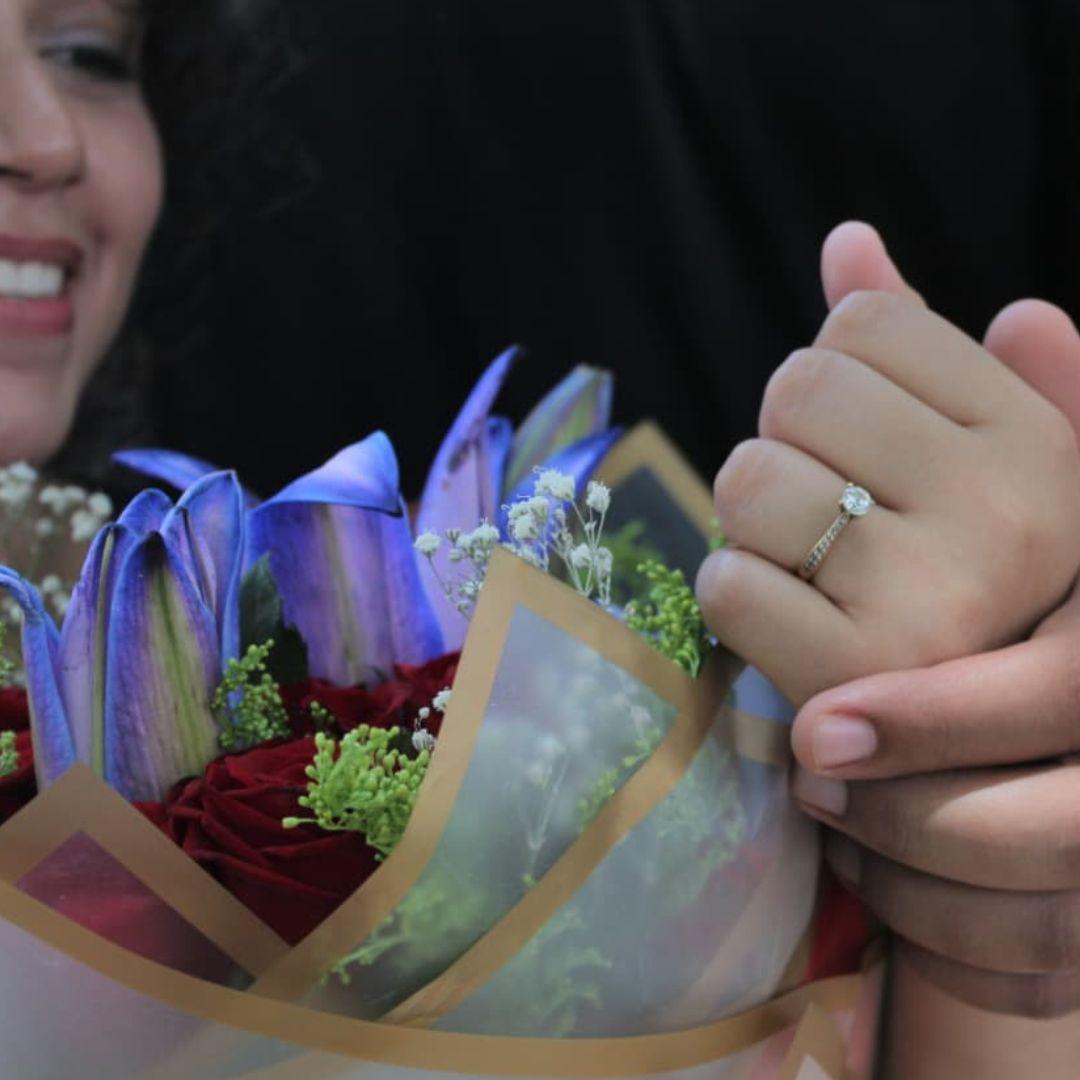
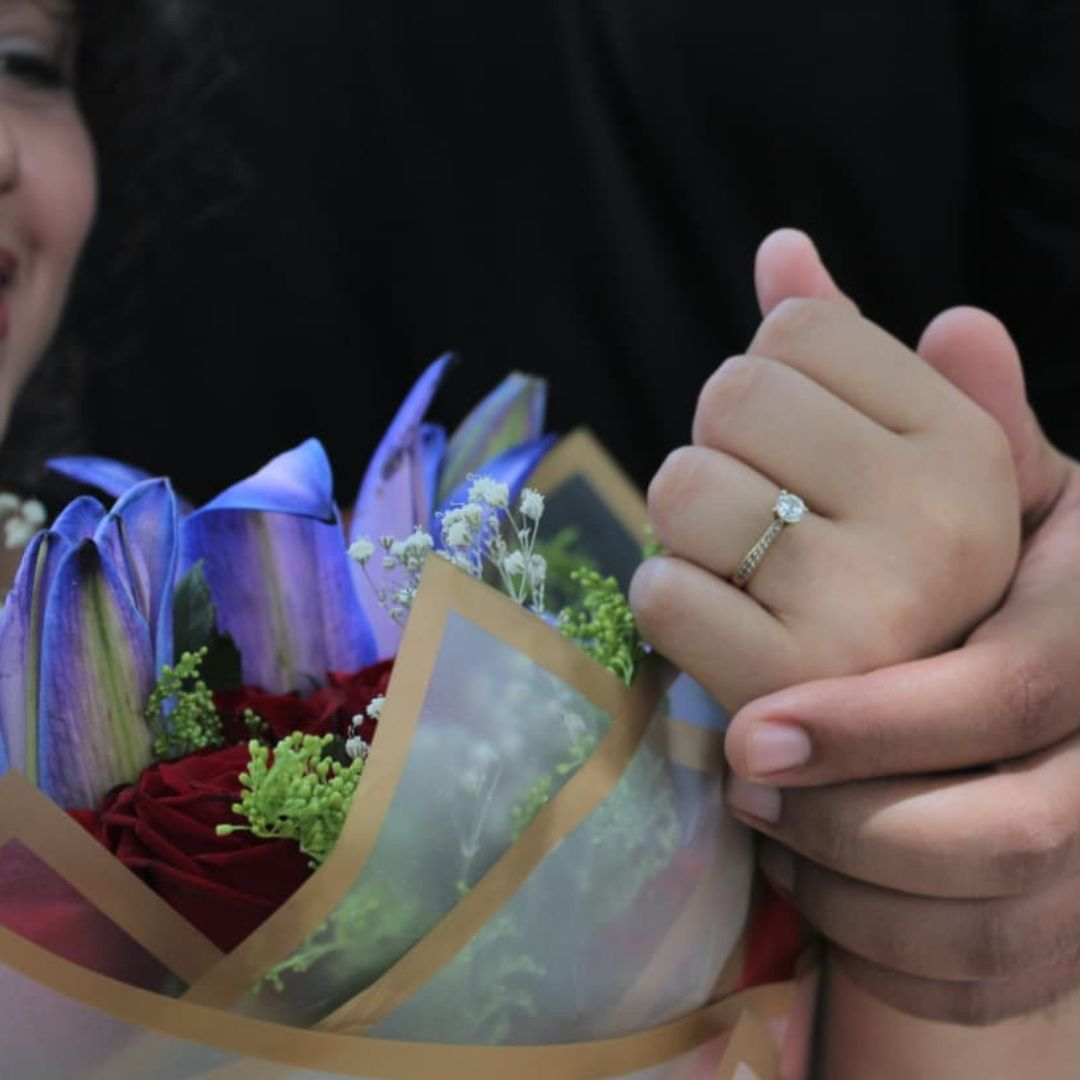
cambio de centrado lugar, arreglo final

diff --git a/index.html b/index.html
@@ -348,12 +348,8 @@ Abimael López Retana
                     <img src="assets/images/lugar.jpg" alt="Salón de Eventos Nakbe" loading="lazy" decoding="async">
                 </div>
 
-                <h3>Lugar</h3>
-
-                <p class="event-info">
-                    <strong>Salón de Eventos Nakbe</strong>
-                </p>
-
+                <h3>Salón de Eventos Nakbe</h3>
+                
                 <p class="event-info">
                     Col. María Alejandra 2da. Avenida 1ra. Calle
                 </p>

diff --git a/css/events.css b/css/events.css
@@ -42,7 +42,7 @@
 
     display:grid;
 
-    grid-template-columns:repeat(auto-fit,minmax(320px,1fr));
+    grid-template-columns:repeat(auto-fit,minmax(min(320px,100%),1fr));
 
     gap:35px;
 
